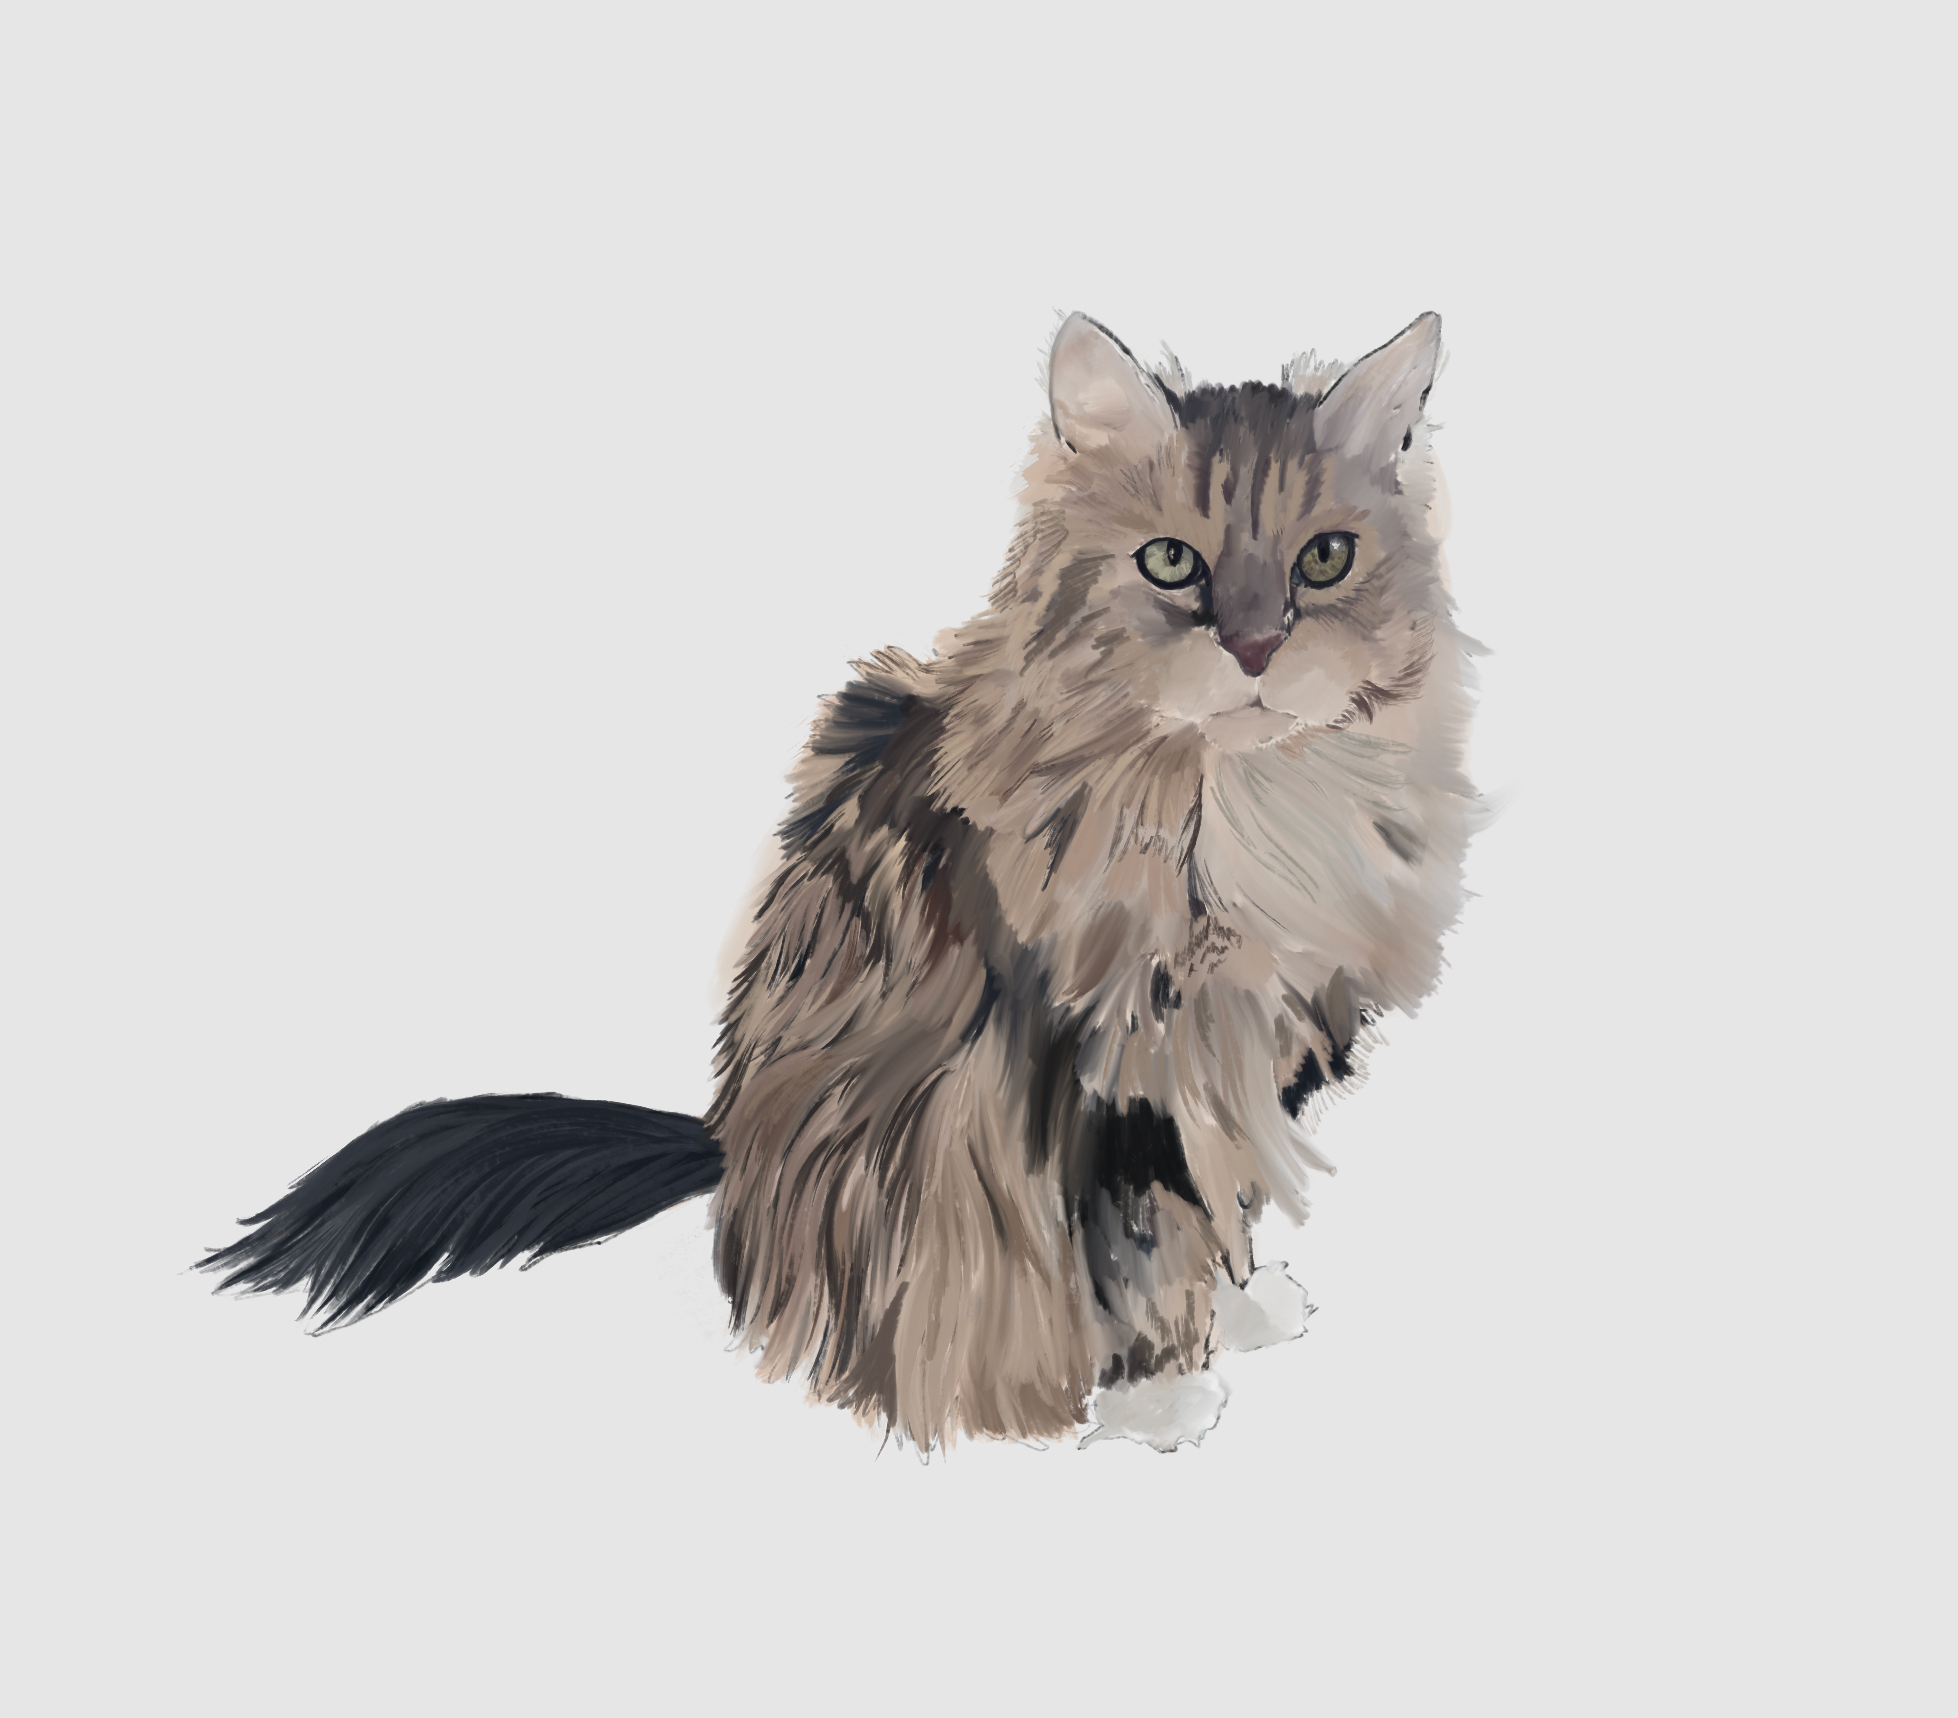
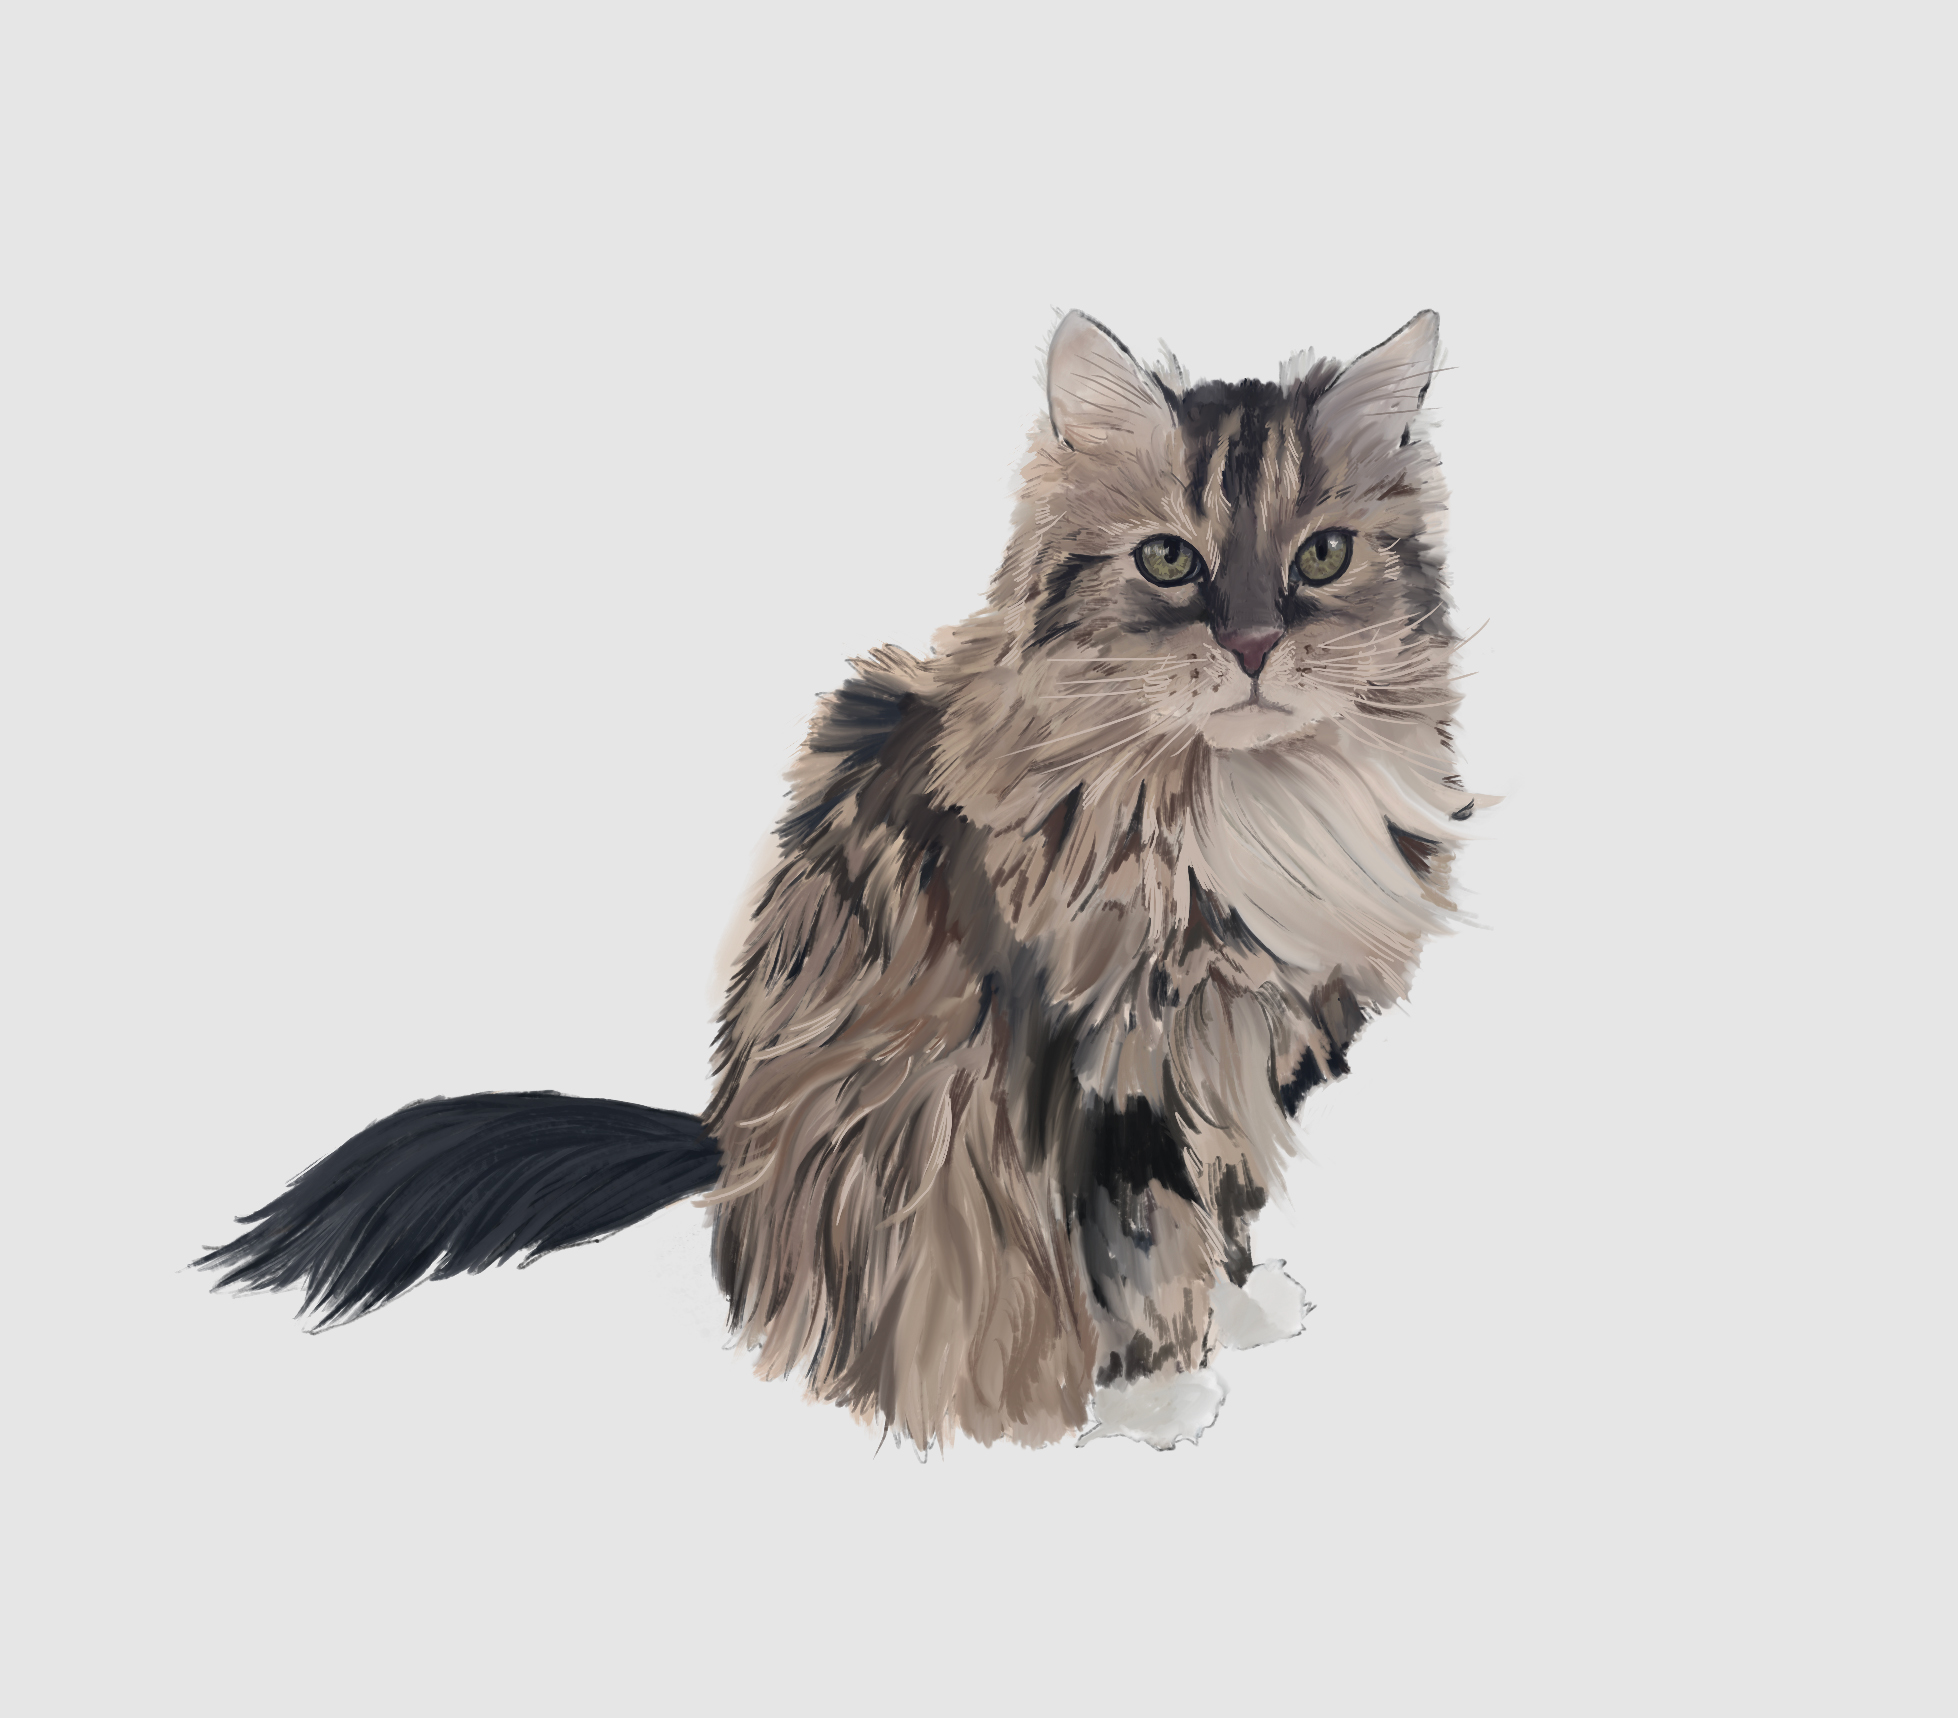
typo fix
typo

diff --git a/corporate-design.html b/corporate-design.html
@@ -490,7 +490,7 @@
                 <div class="portfolio-item" id="box-6">
                     <div class="text-box-cat">
                     <p>
-                    <span data-lang="de">Gezielte Farbgestaltung modern bis klassich, bunte Verläufe ansprechend auf die Zielgruppe.
+                    <span data-lang="de">Gezielte Farbgestaltung modern bis klassisch, bunte Verläufe ansprechend auf die Zielgruppe.
                     </span>
                     <span data-lang="en">Selective color design ranging from modern to classic, colorful gradients appealing to the target audience.
                     </span>
